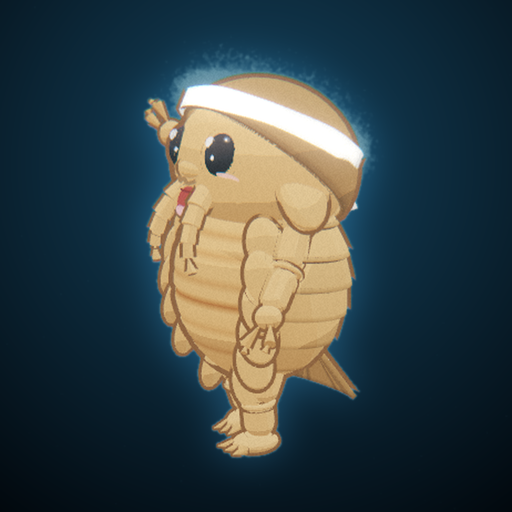
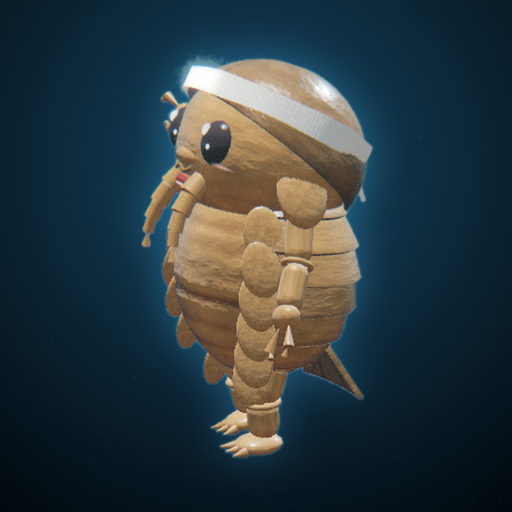
グソっ君：高画質の質感に

Changed region(s): [[0.2812, 0.0938, 0.75, 0.9062]]

diff --git a/gusoku/yuru.html b/gusoku/yuru.html
@@ -198,7 +198,7 @@ body.photo .hud-top,body.photo .console,body.photo #alert{visibility:hidden}
 @keyframes ltpulse{50%{box-shadow:0 0 10px rgba(255,180,110,.45)}}
 .lt-sheet{background:#0b1a24}
 .lt-sheet .tabs span{font-size:12px;color:var(--dim);align-self:center;padding:0 4px}
-.lt-paper{margin-top:12px;background:#efe6d2;color:#3a2a1c;border-radius:4px;padding:22px 22px 26px;background-image:repeating-linear-gradient(transparent 0 31px,rgba(120,90,60,.18) 31px 32px);box-shadow:inset 0 0 30px rgba(120,90,50,.18)}
+.lt-paper{margin-top:12px;background:#efe6d2;color:#3a2a1c;border-radius:4px;padding:16px 22px 26px;background-position:0 16px;background-image:repeating-linear-gradient(transparent 0 31px,rgba(120,90,60,.18) 31px 32px);box-shadow:inset 0 0 30px rgba(120,90,50,.18)}
 .lt-paper p{margin:0;white-space:pre-wrap;font-family:var(--f-display);font-size:16px;line-height:32px}
 .yuru .lt-paper{border-radius:16px;background-color:#fff4e0}
 #glowfx{position:fixed;inset:0;pointer-events:none;z-index:4;opacity:0;background:radial-gradient(55% 45% at 50% 55%,rgba(255,236,180,.30),transparent 70%)}
@@ -1111,13 +1111,28 @@ function poseIsopod(I,P,dt,time){
    so the molt, birth, dream and life systems drive it unchanged.
    ===================================================================== */
 const GRAD=(()=>{const d=new Uint8Array([92,92,92,255,160,160,160,255,215,215,215,255]);const t=new THREE.DataTexture(d,3,1,THREE.RGBAFormat);t.minFilter=t.magFilter=THREE.NearestFilter;t.generateMipmaps=false;t.needsUpdate=true;return t})();
-function toon(col,o){const m=new THREE.MeshToonMaterial(Object.assign({color:col,gradientMap:GRAD},o||{}));addCaustics(m,.12);return m}
+/* High-quality look (same rendering as the realistic version): glossy lacquered shell with clear-coat,
+   soft sheen, fine bump detail from the real shell texture, and full caustics. No cartoon outlines. */
+const HQ=true;
+function charaTex(){if(TEX.cshell)return;
+  // warm mottled albedo (like the real shell's pigment) and a finer, deeper relief
+  const S=256;TEX.cshell=canvasTex(S,(d)=>{for(let y=0;y<S;y++)for(let x=0;x<S;x++){const u=x/S,v=y/S,n=fbm(u*6,v*6,5,6),sp=Math.pow(fbm(u*22+3,v*22+7,3,22),3);
+    const k=.9+.16*n-.2*sp,i=(y*S+x)*4;d[i]=255*Math.min(1,k*1.02);d[i+1]=255*Math.min(1,k*.97);d[i+2]=255*Math.min(1,k*.92);d[i+3]=255}},true);
+  TEX.cshellN=normalTex(heightField(S,(u,v)=>fbm(u*10,v*10,5,10)*.7+Math.pow(fbm(u*40,v*40,2,40),2)*.3),S,6);
+  TEX.cshell.repeat.set(2,2);TEX.cshellN.repeat.set(2,2)}
+function toon(col,o){o=o||{};charaTex();const m=new THREE.MeshPhysicalMaterial(Object.assign({color:col,map:TEX.cshell,roughness:.34,metalness:0,clearcoat:.9,clearcoatRoughness:.14,
+  sheen:.4,sheenColor:new THREE.Color('#ffe3c6'),sheenRoughness:.45,normalMap:TEX.cshellN,normalScale:new THREE.Vector2(.24,.24),clearcoatNormalMap:TEX.cshellN,clearcoatNormalScale:new THREE.Vector2(.12,.12),envMapIntensity:1.5},o));addCaustics(m,.7);return m}
+function clothMat(col){
+  if(!TEX.weaveN){const S=128;TEX.weaveN=normalTex(heightField(S,(u,v)=>{const a=Math.sin(u*TAU*24),b=Math.sin(v*TAU*24);return .5+.25*(Math.sin(v*TAU*24+(a>0?0:Math.PI))*.5+a*.5)*(.6+.4*Math.abs(b))+fbm(u*8,v*8,3,8)*.15}),S,3);TEX.weaveN.repeat.set(6,1)}
+  const m=new THREE.MeshPhysicalMaterial({color:col,roughness:.88,clearcoat:0,sheen:1,sheenColor:new THREE.Color('#ffffff'),sheenRoughness:.75,normalMap:TEX.weaveN,normalScale:new THREE.Vector2(.5,.5),side:THREE.DoubleSide,envMapIntensity:.6});addCaustics(m,.5);return m}
+function softDisc(){if(TEX.blush)return TEX.blush;const c=document.createElement('canvas');c.width=c.height=128;const g=c.getContext('2d'),gr=g.createRadialGradient(64,64,4,64,64,62);
+  gr.addColorStop(0,'rgba(255,255,255,1)');gr.addColorStop(.55,'rgba(255,255,255,.55)');gr.addColorStop(1,'rgba(255,255,255,0)');g.fillStyle=gr;g.fillRect(0,0,128,128);return TEX.blush=new THREE.CanvasTexture(c)}
 const OLC={};
 function olMat(w){if(OLC[w])return OLC[w];const m=new THREE.MeshBasicMaterial({color:'#3f1e0b',side:THREE.BackSide});
   m.onBeforeCompile=sh=>{sh.vertexShader=sh.vertexShader.replace('#include <begin_vertex>','#include <begin_vertex>\ntransformed+=normal*'+(w*1.7).toFixed(4)+';')};m.customProgramCacheKey=()=>'ol'+w;return OLC[w]=m}
 function vc(g,c){if(!g.attributes.color){const n=g.attributes.position.count,a=new Float32Array(n*3).fill(c===undefined?1:c);g.setAttribute('color',new THREE.BufferAttribute(a,3))}return g}
 function mk(geo,mat,parent,pos,rot,ol,opt){const m=new THREE.Mesh(geo,mat);if(pos)m.position.set(pos[0],pos[1],pos[2]);if(rot)m.rotation.set(rot[0],rot[1],rot[2]);
-  m.castShadow=!(opt&&opt.noShadow);parent.add(m);if(ol){const o=new THREE.Mesh(geo,olMat(ol));o.userData.outline=true;o.raycast=()=>{};m.add(o)}if(opt&&opt.keep)m.userData.keep=true;return m}
+  m.castShadow=!(opt&&opt.noShadow);parent.add(m);if(ol&&!HQ){const o=new THREE.Mesh(geo,olMat(ol));o.userData.outline=true;o.raycast=()=>{};m.add(o)}if(opt&&opt.keep)m.userData.keep=true;return m}
 const BC={y:.55,rx:.62,ry:.68,rz:.5};
 function bellyGeo(){
   const g=new THREE.SphereGeometry(1,64,48),p=g.attributes.position,col=[],dark=new THREE.Color(.5,.33,.2),c=new THREE.Color();
@@ -1139,10 +1154,10 @@ function shieldGeo(){ // cephalic shield over the crown: front edge forms the br
   return gridSolid(72,14,fn,.028,[0,0])}
 function buildIsopod(opt){
   opt=opt||{};
-  const TAN='#a9581f',shellMat=toon(TAN,{vertexColors:true,side:THREE.DoubleSide}),limbMat=toon('#a5561f'),coreMat=toon('#3a1c12');
-  const eyeMat=new THREE.MeshPhysicalMaterial({color:'#160d0b',roughness:.08,clearcoat:1,clearcoatRoughness:.04,emissive:new THREE.Color('#ffffff'),emissiveIntensity:0});
-  const white=new THREE.MeshBasicMaterial({color:'#ffffff'}),blushMat=new THREE.MeshBasicMaterial({color:'#ff7f72',transparent:true,opacity:.85,depthWrite:false});
-  const bandMat=toon('#f6ecda',{side:THREE.DoubleSide}),lineMat=new THREE.MeshBasicMaterial({color:'#5a3216'}),clawMat=toon('#8e4718');
+  const TAN='#a9581f',shellMat=toon(TAN,{vertexColors:true,side:THREE.DoubleSide}),limbMat=toon('#a5561f',{roughness:.46,clearcoat:.5}),coreMat=toon('#3a1c12',{roughness:.6,clearcoat:.2});
+  const eyeMat=new THREE.MeshPhysicalMaterial({color:'#160d0b',roughness:.06,clearcoat:1,clearcoatRoughness:.03,envMapIntensity:1.6,emissive:new THREE.Color('#ffffff'),emissiveIntensity:0});
+  const white=new THREE.MeshBasicMaterial({color:'#ffffff'}),blushMat=new THREE.MeshBasicMaterial({color:'#ff6f66',map:softDisc(),transparent:true,opacity:.85,depthWrite:false});
+  const bandMat=clothMat('#f6ecda'),lineMat=new THREE.MeshStandardMaterial({color:'#4a2810',roughness:.6}),clawMat=toon('#8e4718',{roughness:.28,clearcoat:.95});
   const I={shellBase:new THREE.Color(TAN),limbBase:new THREE.Color('#a5561f'),root:new THREE.Group(),body:new THREE.Group(),joints:[],segs:[],legs:[],ant:[],mouth:[],eyes:[],shellMat,coreMat,limbMat,eyeMat,pleopods:[],oost:[],eggs:[],
     chara:true,focusH:1.25,reach:.8,shedBack:1.5,shedFront:1.3,blink:0,nextBlink:2+rnd()*3};
   I.root.add(I.body);
@@ -1218,11 +1233,11 @@ function buildIsopod(opt){
   mk(new THREE.TubeGeometry(mc,24,.012,6),lineMat,head,null,null,0,{keep:true,noShadow:true});
   // mouth: opens between the two tusks, below the wavy upper lip — dark red cavity with a pink tongue
   const mo=new THREE.Group();mo.position.set(0,-.25,.46);head.add(mo);mo.scale.set(1,.02,1);I.mouthOpen=mo;
-  const cav=mk(new THREE.SphereGeometry(1,28,18).scale(.13,.135,.04),new THREE.MeshBasicMaterial({color:'#6e1712'}),mo,[0,-.11,0],null,.014,{keep:true,noShadow:true});
-  mk(new THREE.SphereGeometry(1,24,14).scale(.09,.05,.022),new THREE.MeshBasicMaterial({color:'#e86d74'}),mo,[0,-.19,.02],null,0,{keep:true,noShadow:true});
+  const cav=mk(new THREE.SphereGeometry(1,28,18).scale(.13,.135,.04),new THREE.MeshStandardMaterial({color:'#5e130f',roughness:.7}),mo,[0,-.11,0],null,.014,{keep:true,noShadow:true});
+  mk(new THREE.SphereGeometry(1,24,14).scale(.09,.05,.022),new THREE.MeshPhysicalMaterial({color:'#e86d74',roughness:.35,clearcoat:.6,clearcoatRoughness:.2}),mo,[0,-.19,.02],null,0,{keep:true,noShadow:true});
   mk(new THREE.SphereGeometry(1,20,10,0,TAU,0,Math.PI/2).scale(.125,.03,.035),new THREE.MeshBasicMaterial({color:'#4a0f0b'}),mo,[0,-.015,.008],[Math.PI,0,0],0,{keep:true,noShadow:true});
   // cold-sweat drops for the shocked face
-  const dropMat=new THREE.MeshBasicMaterial({color:'#cdeeff',transparent:true,opacity:.95});
+  const dropMat=new THREE.MeshPhysicalMaterial({color:'#cdeeff',roughness:.04,clearcoat:1,transparent:true,opacity:.8,envMapIntensity:1.5});
   I.sweat=[[.05,.3,.46,.2],[.47,.12,.33,-.5],[-.42,.2,.38,.6]].map(([x,y,z,r])=>{const g=new THREE.Group();g.position.set(x,y,z);g.rotation.z=r;head.add(g);
     mk(new THREE.SphereGeometry(.03,14,10),dropMat,g,[0,0,0],null,.006,{keep:true,noShadow:true});const cn=new THREE.ConeGeometry(.026,.06,14);cn.translate(0,.035,0);mk(cn,dropMat,g,null,null,.006,{keep:true,noShadow:true});g.visible=false;return g});
   // tusk-like antennae hanging from under the face
@@ -1234,7 +1249,7 @@ function buildIsopod(opt){
     I.ant.push({root,chain,s});});
   // angry brows — appear as the dark side takes over
   I.blushMat=blushMat;
-  I.brows=[-1,1].map(s=>{const g=new THREE.CapsuleGeometry(.022,.13,4,10);g.rotateZ(Math.PI/2);const b=mk(g,new THREE.MeshBasicMaterial({color:'#2a120a'}),head,[s*.23,.17,.475],[-.15,0,s*.42],0,{keep:true,noShadow:true});b.visible=false;return b});
+  I.brows=[-1,1].map(s=>{const g=new THREE.CapsuleGeometry(.022,.13,4,10);g.rotateZ(Math.PI/2);const b=mk(g,new THREE.MeshStandardMaterial({color:'#2a120a',roughness:.85}),head,[s*.23,.17,.475],[-.15,0,s*.42],0,{keep:true,noShadow:true});b.visible=false;return b});
   // headband (hachimaki) with a knot and two tails at the back
   I.bandMat=bandMat;
   const band=new THREE.Group();band.position.set(0,.21,-.01);band.rotation.set(-.2,0,.05);head.add(band);I.band=band;
@@ -1266,8 +1281,8 @@ function buildIsopod(opt){
     vertexShader:'varying vec2 vUv;void main(){vUv=uv;gl_Position=projectionMatrix*modelViewMatrix*vec4(position,1.);}',
     fragmentShader:'varying vec2 vUv;uniform float uA;void main(){vec2 p=(vUv-.5)*2.;float d=length(p);gl_FragColor=vec4(0.,0.,0.,smoothstep(1.,.15,d)*uA);}'}));
   cs.rotation.x=-Math.PI/2;cs.renderOrder=1;scene.add(cs);I.contact=cs;CONTACTS.push(cs);
-  I.newShellMat=shellMat.clone();addCaustics(I.newShellMat,.12);I.newShellMat.color.set('#e0a573');
-  I.newLimbMat=limbMat.clone();addCaustics(I.newLimbMat,.12);I.newLimbMat.color.set('#dba077');
+  I.newShellMat=shellMat.clone();addCaustics(I.newShellMat,.6);I.newShellMat.color.set('#e0a573');
+  I.newLimbMat=limbMat.clone();addCaustics(I.newLimbMat,.6);I.newLimbMat.color.set('#dba077');
   scene.add(I.root);
   return I;
 }
@@ -3091,7 +3106,7 @@ const Col={
 };
 
 /* ---- the creature digs things up */
-function wMat(col,o){o=o||{};if(ISO&&ISO.chara&&typeof toon==='function')return toon(col,o.emissive!==undefined?{emissive:o.emissive}:{});return new THREE.MeshStandardMaterial(Object.assign({color:col,roughness:.6,metalness:0},o))}
+function wMat(col,o){o=o||{};return new THREE.MeshStandardMaterial(Object.assign({color:col,roughness:.6,metalness:0},o))}
 function disposeTree(g){scene.remove(g);g.traverse(o=>{if(o.geometry)o.geometry.dispose();if(o.material)[].concat(o.material).forEach(m=>m.dispose())})}
 
 /* ---- visitors: a few simple creatures that drift through the far side of the tank */

diff --git a/gusoku/real.html b/gusoku/real.html
@@ -2835,7 +2835,7 @@ const Col={
 };
 
 /* ---- the creature digs things up */
-function wMat(col,o){o=o||{};if(ISO&&ISO.chara&&typeof toon==='function')return toon(col,o.emissive!==undefined?{emissive:o.emissive}:{});return new THREE.MeshStandardMaterial(Object.assign({color:col,roughness:.6,metalness:0},o))}
+function wMat(col,o){o=o||{};return new THREE.MeshStandardMaterial(Object.assign({color:col,roughness:.6,metalness:0},o))}
 function disposeTree(g){scene.remove(g);g.traverse(o=>{if(o.geometry)o.geometry.dispose();if(o.material)[].concat(o.material).forEach(m=>m.dispose())})}
 
 /* ---- visitors: a few simple creatures that drift through the far side of the tank */
